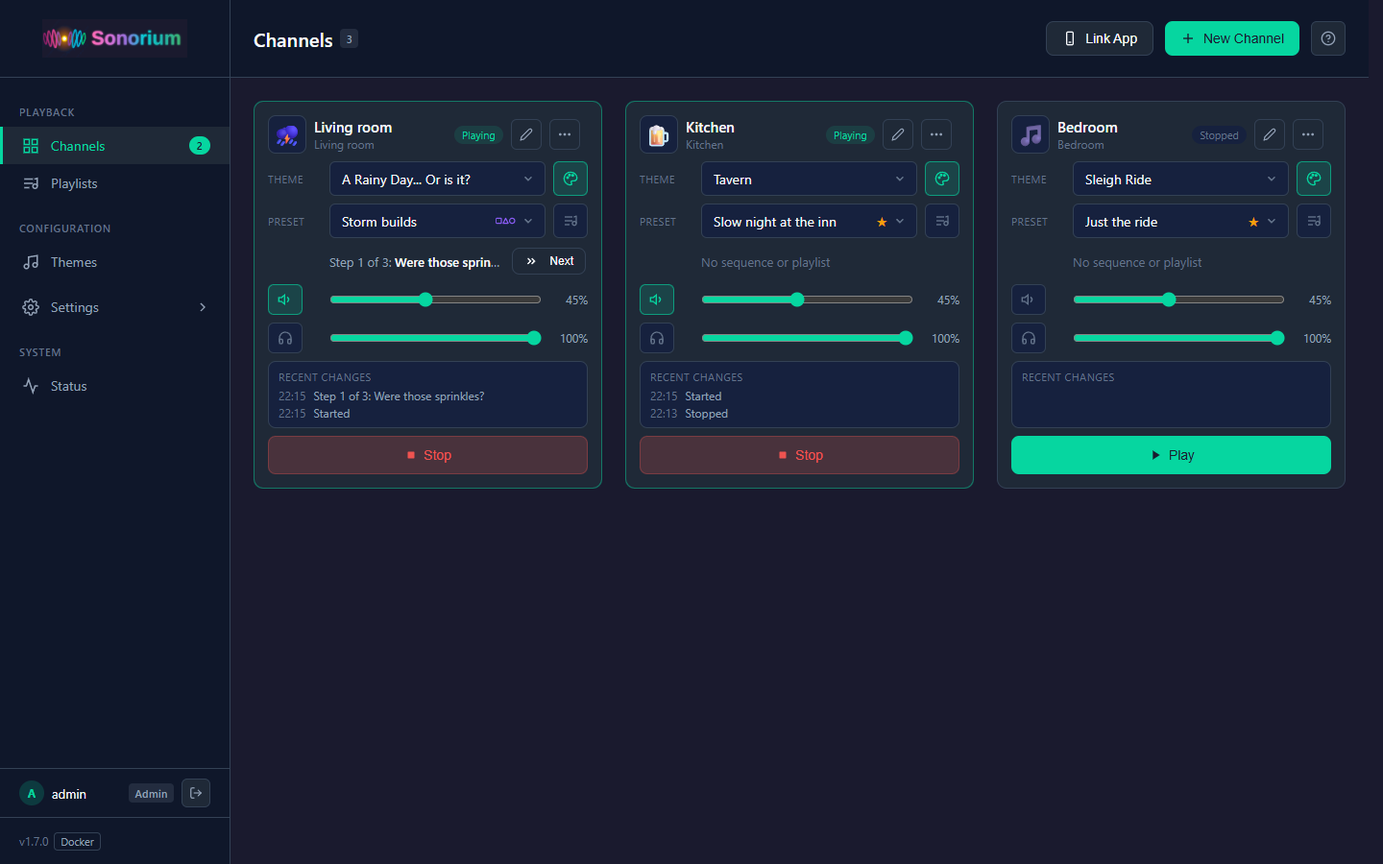
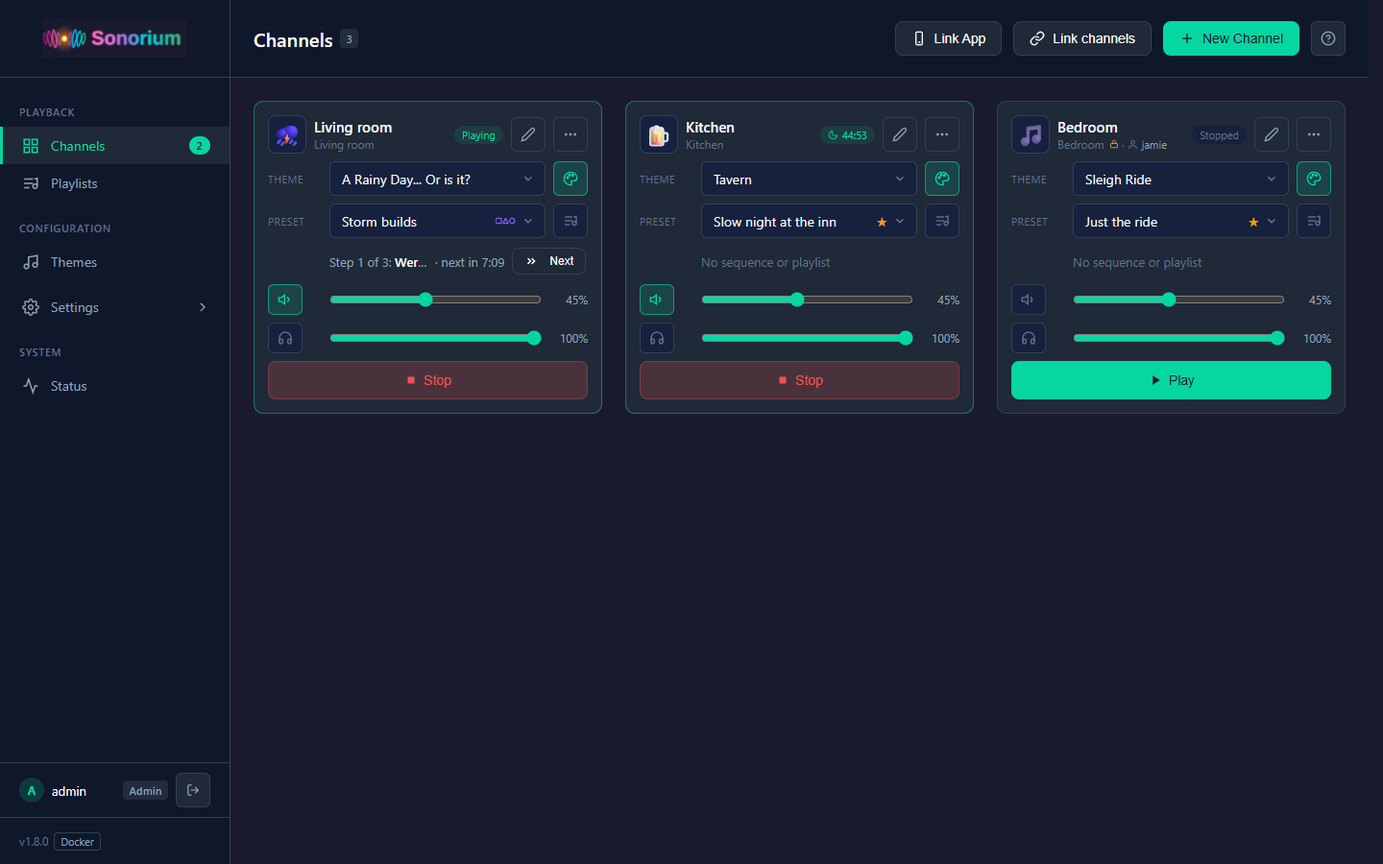
chore(release): 1.8.0 notice, changelog highlights, READMEs and screenshots [skip ci]
READMEs (root and add-on): a "Major release: 1.8.0" notice at the top of
Announcements, and What's new 1.8.0 grouped for users: Plugin Framework 2,
themes (MP3 standard, bulk import, Duplicate, unique names, Copy into this
theme, backups and packages for the app), channels (sleep timer, Next and
Previous, Child Mode, cards without Recent changes, back after a restart,
Max channels, My Channel), settings (server name, Stereo, Keys and
Announcements switches, Restart), network and hosting (ports, trusted
proxies, public Stream URL), security (limits, stream links, first account,
log privacy, lookups) and fixes; root also the first full Windows release.
Features, formats, Web UI settings, Docker ports and a reverse-proxy note
pointing to docs/HOSTING.md brought up to date; Kid mode is Child Mode;
built-in plugins are Theme Merge and Ambient Mixer Importer.

CHANGELOG: 1.8.0 notice and highlights under the version-list marker, where
the release commit adds the v1.8.0 heading.

Screenshots from a local server (fake speakers on 192.0.2.x, no discovery
or mDNS): Channels and Phone_Channels (no Recent changes, sleep timer,
Child Mode lock), Settings_Advanced (General); new Import_Themes and
Settings_Network (Limits and Network).

The subject is chore(release) so the changelog leaves it out, and
[skip ci] so no -dev version is made on this branch.

diff --git a/README.md b/README.md
@@ -6,6 +6,21 @@
 
 ## Announcements
 
+> ## ⭐ Major release: 1.8.0
+>
+> A large update. Plugins can add to any screen, theme audio is stored in one standard format, themes import several at a time, and Sonorium is ready to run behind a reverse proxy and to be reached from outside the home network.
+>
+> - **Plugin Framework 2:** plugins add fields, buttons and pages to the screens, keep values on themes, tracks, channels and speakers, bring devices such as lights or displays, and know which sound is heard where and when. A plugin asks for permission before it runs.
+> - **Theme audio as MP3:** every track is stored as an MP3 (320 kb/s, 44.1 kHz, stereo). The original files are kept in each theme's `_originals` folder.
+> - **Themes:** import several zips at once, or drop them on the Themes page; **Duplicate** copies a theme; no two themes share a name.
+> - **Channels:** a sleep timer, Next and Previous through a theme's presets, and Child Mode (formerly Kid mode).
+> - **Settings › Advanced:** a server name for the app and other devices, the HTTP and HTTPS ports (Docker and Linux), trusted proxies, and limits for sign-ins, requests, uploads, imports and streams.
+> - **Stereo:** an optional switch in **Settings › Audio Settings** keeps left and right apart on every stream.
+>
+> **After the update,** Sonorium converts the existing theme audio to MP3 in the background, one file at a time, while the themes keep playing. A large library needs a while. The originals stay, so the themes folder uses more disk space afterwards.
+>
+> **Unchanged by the update:** the ports stay 8008 and 8808, and Stereo is off. Every new limit has a default and can be changed in **Settings › Advanced**. Details are under [What's new](#whats-new).
+
 > ## ⭐ 1.7.0: Sign-in, announcements and plugins
 >
 > Sonorium gets users and sign-in, plays announcements sent by other systems, and runs plugins that play sounds over channels.
@@ -84,6 +99,11 @@ Search themes, pick speakers by floor, area or one at a time, and switch the cha
 Search, filter by category, and switch between cards and a list.
 
 ![Themes](screenshots/Themes.png)
+
+#### Import themes
+Several theme zips at once, each with its result.
+
+![Import themes](screenshots/Import_Themes.png)
 
 #### Edit Theme
 Tracks in sections by how they play: Unassigned, Background, Intermittent and Ebb & Flow, each with its own groups.
@@ -164,9 +184,13 @@ Keys for devices and programs, each allowed only the items checked on it.
 ![Settings → Keys](screenshots/Settings_Keys.png)
 
 #### Settings → Advanced
-Optional features, and the playback values every theme is built on.
+Optional features, the server name, and the playback values every theme is built on.
 
 ![Settings → Advanced](screenshots/Settings_Advanced.png)
+
+Limits for requests, uploads, imports, streams and sign-in tries, and the network settings: Stream URL, ports and trusted proxies (Docker).
+
+![Settings → Advanced: Limits and Network](screenshots/Settings_Network.png)
 
 #### Help on every page
 The **?** in the top bar explains the page you're on.
@@ -199,6 +223,7 @@ The menu opens from the top bar.
 - **Theme Favorites**: Star your most-used themes for quick access
 - **Custom Categories**: Organize themes into categories like "Weather", "Nature", "Urban"
 - **Theme Icons**: Visual icons for easy theme identification
+- **Import and Duplicate**: Import several theme zips at once, or drop them on the Themes page; Duplicate copies a theme
 - **Bundled Themes**: Includes Sleigh Ride, Tavern, and "A Rainy Day... Or is it?" out of the box
 
 #### Track Mixer
@@ -235,11 +260,12 @@ Fine-tune how each audio file plays within a theme:
 - **Users and Roles**: An Admin changes everything; a User plays and changes channels, playlists and sequences
 - **Keys**: For devices and programs, each allowed only the items checked on it, with an expiry
 - **Link App**: A QR code on the Channels page links the Sonorium app to your account
-- **Zones** (optional): Channels that belong to a user, Kid mode with its hours, a home channel for each speaker, and linked channels
+- **Zones** (optional): Channels that belong to a user, Child Mode and its hours, a home channel for each speaker, and linked channels
 
 #### Plugins
-- **Built-in Plugins**: Users, Integration (keys), Announcements, Theme Merge and Ambient Mixer Importer; each can be uninstalled
-- **Plugin API**: Plugins play sounds and announcements over channels, ramp volume, add audio outputs, and answer remotes, MQTT topics and webhooks
+- **Built-in Plugins**: Theme Merge and Ambient Mixer Importer; each can be uninstalled
+- **Plugin API**: Plugins play sounds and announcements over channels, ramp volume, add audio outputs that work as speakers, and answer remotes, MQTT topics and webhooks
+- **Plugin Framework 2**: Plugins add to any screen, keep values on themes, channels and speakers, bring devices such as lights, follow which sound is heard when, and run only with the permissions an admin allows
 
 #### Modern Web Interface
 - **Responsive Design**: Phones, tablets and short screens each get a layout that fits; on a phone the menu opens from a top bar that's always there
@@ -252,7 +278,7 @@ Fine-tune how each audio file plays within a theme:
 
 ### Supported Formats
 
-Audio files: `.mp3`, `.wav`, `.flac`, `.ogg`
+Audio files: `.mp3`, `.wav`, `.flac`, `.ogg`. Sonorium stores every track as an MP3 (320 kb/s, 44.1 kHz, stereo) and keeps the original in the theme's `_originals` folder.
 
 Single-file themes loop seamlessly using crossfade blending—no jarring restarts!
 
@@ -354,10 +380,17 @@ services:
 4. **Create a Channel** and press play
 
 **Ports.** 8008 serves the web UI, the API and the streams over HTTP. 8808 serves the web
-UI and API over HTTPS, for the Sonorium app (`SONORIUM_HTTPS_PORT` changes it). Its
-certificate is self-signed, so a browser warns about it; the app checks it instead.
-With `network_mode: host` both ports are open on the host. Details:
+UI and API over HTTPS, for the Sonorium app. Its certificate is self-signed, so a browser
+warns about it; the app checks it instead. Both ports change in **Settings › Advanced ›
+Network**, or with `SONORIUM_HTTP_PORT` and `SONORIUM_HTTPS_PORT`; a change restarts
+Sonorium. With `network_mode: host` both ports are open on the host. Details:
 [docs/AUTH.md](docs/AUTH.md).
+
+**Behind a reverse proxy.** Add the proxy's address or network to **Trusted proxies**
+(**Settings › Advanced › Network**, or `SONORIUM__TRUSTED_PROXIES`), so sign-in limits and
+the logs see each caller's address. Set **Stream URL** to the public address
+(`https://...`): the app and Link App codes then use it, and while **Require login** is on,
+speakers outside the LAN get stream links. Details: [docs/HOSTING.md](docs/HOSTING.md).
 
 ### Sign-in
 
@@ -520,6 +553,68 @@ Full documentation is available in the **[Wiki](https://github.com/synssins/sono
 
 ## What's new
 
+#### 1.8.0
+
+**Plugin Framework 2**
+- **Plugins add to any screen.** A plugin adds fields, buttons, columns, badges and pages to the screens, list rows, cards and ⋯ menus. Each spot has fixed rules for what fits there; anything outside them is refused and listed on the plugin's row in **Settings → Plugins**.
+- **Values on themes, channels and more.** A plugin keeps values on themes, tracks, groups, presets, sequences, channels, speakers, playlists and users. They stay through every edit and travel with theme exports; uninstalling the plugin removes them.
+- **Permissions.** A plugin lists what it uses: channels, themes, audio, devices, screens, Home Assistant, MQTT, Python packages, the network. It stays off until an admin allows the list, and an update that asks for more stays off until allowed again. Nothing a plugin brings is installed or run before that.
+- **Devices.** A plugin brings a kind of device, such as a light, a display or a button panel. Sonorium lists, names and places it in an area, and assigns it to channels, without knowing what the device is.
+- **Output devices are speakers.** Audio outputs a plugin provides show in **Settings → Speakers** and the channel editor like any speaker. Outputs of the computer Sonorium runs on play one at a time, unless **Allow output to more than one local device** is on (**Settings → Plugins**, ⋯ menu).
+- **Cues and listening.** A plugin learns ahead of time which sound will be heard on which speaker, and when, and can listen to a channel's mix: lights or a display can follow the sound. Neither can slow or change playback.
+- **Only if.** A command map entry can have conditions (⋯ › **Only if…**): the channel is playing or stopped, the time is between two times, or a condition a plugin adds. Plugins can also add actions.
+- **For plugin authors:** plugin API 1.2. See [docs/PLUGIN_DEVELOPMENT.md](docs/PLUGIN_DEVELOPMENT.md), sections 23 to 31.
+
+**Themes**
+- **MP3 for theme audio.** Every track is stored as an MP3 at 320 kb/s, 44.1 kHz, stereo. Imports, uploads and copied files are converted as they arrive; existing themes are converted in the background after the update, one file at a time. Track settings, presets, sequences and links stay as they were. The original files are kept in the theme's `_originals` folder, which is never played and is left out of exports.
+- **Import several themes.** **Import theme…** accepts several zips at once, or drop them on the Themes page. They import one after another, each with its result; one that fails doesn't stop the rest.
+- **Duplicate.** A theme's ⋯ menu, on the Themes page and in the Theme Editor, makes a separate copy under a new name.
+- **One name per theme.** Two themes can't have the same name (capitals don't count). Creating, renaming, importing or duplicating with a name in use is refused with "A theme with this name already exists".
+- **Copy into this theme.** A linked file's download button, or its ⋯ menu, copies the file into the theme in place of the link. Its settings and preset values stay.
+- **Theme backups from the Sonorium app.** The app backs up a device's presets, sequences, track settings and playlists to the server, and whole themes made on the device, per account and device. **Settings → Backups** lists them; **Load my device presets into themes** adds a device's presets to the matching themes as ordinary presets. **Backup space per user** and **Backup space for all users** are in **Settings → Advanced**.
+- **Themes for the app.** The Sonorium app can download a theme, every file checked, to play on the device.
+
+**Channels**
+- **Sleep timer.** A playing channel's ⋯ › **Sleep timer…** fades it out and stops it after 15, 30 or 45 minutes, 1 to 4 hours, or a custom time. The card shows the time left. A restart keeps the timer.
+- **Next and Previous.** With no playlist or sequence running, **Next** (Home Assistant, MQTT, plugins, the Sonorium app) moves to the theme's next preset. **Previous**, new for the app and the API, goes back one playlist entry, sequence step or preset.
+- **Channel cards.** Recent changes is gone from the cards and from the Home Assistant channel popup; each card is as tall as what it shows.
+- **Child Mode.** Kid mode is now called Child Mode. The card shows a lock after the speakers.
+- **Back after a restart.** After a restart from Settings or the web UI, the channels that were playing play again with their theme, preset, sequence or playlist, and volume. After a stop or a crash they stay stopped.
+- **Max channels.** Starting a channel when the most channels are already playing is refused with a message, from the web UI, Home Assistant, MQTT, plugins and links.
+- **My Channel.** For the Sonorium app: each account has a channel that plays only on that account's devices.
+
+**Settings**
+- **Server name** (**Settings → Advanced**, General): the name the app and other devices show, also announced on the network.
+- **Stereo** (**Settings → Audio Settings**, off by default): left and right stay apart on every stream; a mono file plays in the middle.
+- **Keys and Announcements** are switches in **Settings → Advanced**; off turns the feature off everywhere at once. Users, Keys and Announcements are part of Sonorium now, no longer built-in plugins. Existing users and keys keep working.
+- **Restart** from Settings works in Docker and the Home Assistant app. Before, the page could hang.
+
+**Network and hosting**
+- **Ports.** **Settings → Advanced**, Network sets the HTTP port (8008) and the HTTPS port (8808) on Docker and Linux; `SONORIUM_HTTP_PORT` and `SONORIUM_HTTPS_PORT` do the same. A change restarts Sonorium.
+- **Behind a reverse proxy.** **Trusted proxies** names the proxies in front of Sonorium, so sign-in limits and the logs see each caller's address. Set the **Stream URL** to the public address: the app and Link App codes then use it. See [docs/HOSTING.md](docs/HOSTING.md).
+- **Home networks on 10.x addresses** work. They were taken for Docker's internal network.
+
+**Security**
+- **Limits** in **Settings → Advanced**, Limits: the size of sign-in requests, other requests, uploads and theme imports, the files in one theme import, exports at once, streams per address and in all, event streams per user, and sign-in tries per username. Each has a default; 0 is no limit.
+- **Stream links.** While **Require login** is on, speakers outside the LAN get stream addresses that work for a set time (12 hours by default).
+- **The first account** can only be made from the LAN, or with `SONORIUM_SETUP_TOKEN`.
+- **Logs.** Sign-ins and addresses on the Logs page are for admins; everyone else sees `[address]`. The add-on log and `docker logs` keep the full lines.
+- **Theme lookups and links** can't reach outside the audio folder, Windows drive letters included. A theme import leaves out files that don't belong in a theme.
+
+**Windows app**
+- **First full release.** The Windows installer (`Sonorium-Setup-1.8.0.exe`) is on the [Releases page](https://github.com/synssins/sonorium/releases) as a full release; earlier Windows builds were pre-releases. Installed Windows apps update from it.
+
+**Fixes**
+- A group's file that ends cut off fades out instead of stopping dead.
+- A preset's and a While playing step's **Rise** reach the channel.
+- A theme zip without a top folder keeps its groups.
+- **Esc** in the Theme Editor works like **Cancel**, and closes the channel editor without saving.
+- **New Channel** starts at the **Default volume** from **Settings → Audio Settings**.
+- **Removing MQTT** also removes the Announce notify entities and plugins' entities from Home Assistant.
+- **Keys:** **Last used** changes only when a request with the key is accepted.
+- The **Link App** dialog closes once its code links a device or expires.
+- Themes load on Windows when their files contain accented letters or other special characters.
+
 #### 1.7.0
 
 **Sign-in**
@@ -549,7 +644,7 @@ Full documentation is available in the **[Wiki](https://github.com/synssins/sono
 **Home Assistant dashboard cards**
 - **Sonorium's cards** are added to Home Assistant automatically when Home Assistant and MQTT are linked. Search for **Sonorium** in the card picker.
 - **Four layouts:** **Tile**, **Channel**, **Player** and **All channels**, changed in the card's editor along with what each one shows.
-- **Channel popup.** Clicking a channel's name opens the channel as it looks on Sonorium's Channels page, with its recent changes.
+- **Channel popup.** Clicking a channel's name opens the channel as it looks on Sonorium's Channels page.
 - When the cards can't be added automatically, **Settings → Connection** says why and offers the file to download (Docker).
 
 **Zones**

diff --git a/sonorium_addon/README.md b/sonorium_addon/README.md
@@ -4,6 +4,21 @@
 
 ## Announcements
 
+> ## ⭐ Major release: 1.8.0
+>
+> A large update. Plugins can add to any screen, theme audio is stored in one standard format, themes import several at a time, and Sonorium is ready to run behind a reverse proxy and to be reached from outside the home network.
+>
+> - **Plugin Framework 2:** plugins add fields, buttons and pages to the screens, keep values on themes, tracks, channels and speakers, bring devices such as lights or displays, and know which sound is heard where and when. A plugin asks for permission before it runs.
+> - **Theme audio as MP3:** every track is stored as an MP3 (320 kb/s, 44.1 kHz, stereo). The original files are kept in each theme's `_originals` folder.
+> - **Themes:** import several zips at once, or drop them on the Themes page; **Duplicate** copies a theme; no two themes share a name.
+> - **Channels:** a sleep timer, Next and Previous through a theme's presets, and Child Mode (formerly Kid mode).
+> - **Settings › Advanced:** a server name for the app and other devices, the HTTP and HTTPS ports (Docker and Linux), trusted proxies, and limits for sign-ins, requests, uploads, imports and streams.
+> - **Stereo:** an optional switch in **Settings › Audio Settings** keeps left and right apart on every stream.
+>
+> **After the update,** Sonorium converts the existing theme audio to MP3 in the background, one file at a time, while the themes keep playing. A large library needs a while. The originals stay, so the themes folder uses more disk space afterwards.
+>
+> **Unchanged by the update:** the ports stay 8008 and 8808, and Stereo is off. Every new limit has a default and can be changed in **Settings › Advanced**. Details are under [What's new](#whats-new).
+
 > ## ⭐ 1.7.0: Sign-in, announcements and plugins
 >
 > Sonorium gets users and sign-in, plays announcements sent by other systems, and runs plugins that play sounds over channels.
@@ -89,6 +104,11 @@ Search, filter by category, and switch between cards and a list.
 
 ![Themes](https://raw.githubusercontent.com/synssins/sonorium/main/screenshots/Themes.png)
 
+#### Import themes
+Several theme zips at once, each with its result.
+
+![Import themes](https://raw.githubusercontent.com/synssins/sonorium/main/screenshots/Import_Themes.png)
+
 #### Edit Theme
 Tracks in sections by how they play: Unassigned, Background, Intermittent and Ebb & Flow, each with its own groups.
 
@@ -166,9 +186,13 @@ Keys for devices and programs, each allowed only the items checked on it.
 ![Settings → Keys](https://raw.githubusercontent.com/synssins/sonorium/main/screenshots/Settings_Keys.png)
 
 #### Settings → Advanced
-Optional features, and the playback values every theme is built on.
+Optional features, the server name, and the playback values every theme is built on.
 
 ![Settings → Advanced](https://raw.githubusercontent.com/synssins/sonorium/main/screenshots/Settings_Advanced.png)
+
+Limits for requests, uploads, imports, streams and sign-in tries, and the network settings: Stream URL, ports and trusted proxies (Docker).
+
+![Settings → Advanced: Limits and Network](https://raw.githubusercontent.com/synssins/sonorium/main/screenshots/Settings_Network.png)
 
 #### Help on every page
 The **?** in the top bar explains the page you're on.
@@ -199,6 +223,7 @@ The menu opens from the top bar.
 - **Theme Favorites**: Star your most-used themes for quick access
 - **Custom Categories**: Organize themes into categories like "Weather", "Nature", "Urban"
 - **Theme Icons**: Visual icons for easy theme identification
+- **Import and Duplicate**: Import several theme zips at once, or drop them on the Themes page; Duplicate copies a theme
 
 #### Playback Control
 - **Per-Channel Volume**: Independent volume control for each channel
@@ -234,11 +259,12 @@ Fine-tune how each audio file plays within a theme:
 - **Users and Roles**: An Admin changes everything; a User plays and changes channels, playlists and sequences
 - **Keys**: For devices and programs, each allowed only the items checked on it, with an expiry
 - **Link App**: A QR code on the Channels page links the Sonorium app to your account
-- **Zones** (optional): Channels that belong to a user, Kid mode with its hours, a home channel for each speaker, and linked channels
+- **Zones** (optional): Channels that belong to a user, Child Mode and its hours, a home channel for each speaker, and linked channels
 
 #### Plugins
-- **Built-in Plugins**: Users, Integration (keys), Announcements, Theme Merge and Ambient Mixer Importer; each can be uninstalled
-- **Plugin API**: Plugins play sounds and announcements over channels, ramp volume, add audio outputs, and answer remotes, MQTT topics and webhooks
+- **Built-in Plugins**: Theme Merge and Ambient Mixer Importer; each can be uninstalled
+- **Plugin API**: Plugins play sounds and announcements over channels, ramp volume, add audio outputs that work as speakers, and answer remotes, MQTT topics and webhooks
+- **Plugin Framework 2**: Plugins add to any screen, keep values on themes, channels and speakers, bring devices such as lights, follow which sound is heard when, and run only with the permissions an admin allows
 
 #### Modern Web Interface
 - **Responsive Design**: Phones, tablets and short screens each get a layout that fits; on a phone the menu opens from a top bar that's always there
@@ -275,7 +301,7 @@ All theme management is done through the Sonorium web interface:
 2. **Upload Audio**: Drag and drop audio files or click to upload
 3. **Organize**: Set categories, icons, and favorites
 
-**Supported formats:** `.mp3`, `.wav`, `.flac`, `.ogg`
+**Supported formats:** `.mp3`, `.wav`, `.flac`, `.ogg`. Sonorium stores every track as an MP3 (320 kb/s, 44.1 kHz, stereo) and keeps the original in the theme's `_originals` folder.
 
 **Single-File Themes:** Themes with one audio file loop seamlessly using crossfade blending—no jarring restarts!
 
@@ -355,13 +381,15 @@ Access Settings from the sidebar to configure:
 - **Crossfade Duration**: Blend time between loops (0-10 seconds)
 - **Default Volume**: Initial volume for new channels
 - **Master Gain**: Global output level
+- **Stereo**: Left and right apart on every stream (off by default)
 - **Speakers**: Switch speakers on or off, set their name, room and volume offset, and play a test sound
 - **Speaker Groups**: Saved sets of speakers for quick channel setup
 - **Plugins**: Install, update, remove and set up plugins
 - **Logs**: Recent messages, with level filter, search, copy and download
 - **Users & devices**: Users, their roles, browsers and phones, and **Require login** (admins)
+- **Backups**: Theme backups from the Sonorium app, by device
 - **Keys**: Keys for devices and programs (admins)
-- **Advanced**: Optional features such as Zones and Plugin packages, and the playback values every theme is built on
+- **Advanced**: The server name, optional features such as Zones, Keys, Announcements and Plugin packages, the playback values every theme is built on, and limits
 
 ### Announcements: let other systems use Sonorium
 
@@ -524,6 +552,65 @@ automations that use the entity first.
 
 ## What's new
 
+### 1.8.0
+
+**Plugin Framework 2**
+- **Plugins add to any screen.** A plugin adds fields, buttons, columns, badges and pages to the screens, list rows, cards and ⋯ menus. Each spot has fixed rules for what fits there; anything outside them is refused and listed on the plugin's row in **Settings → Plugins**.
+- **Values on themes, channels and more.** A plugin keeps values on themes, tracks, groups, presets, sequences, channels, speakers, playlists and users. They stay through every edit and travel with theme exports; uninstalling the plugin removes them.
+- **Permissions.** A plugin lists what it uses: channels, themes, audio, devices, screens, Home Assistant, MQTT, Python packages, the network. It stays off until an admin allows the list, and an update that asks for more stays off until allowed again. Nothing a plugin brings is installed or run before that.
+- **Devices.** A plugin brings a kind of device, such as a light, a display or a button panel. Sonorium lists, names and places it in an area, and assigns it to channels, without knowing what the device is.
+- **Output devices are speakers.** Audio outputs a plugin provides show in **Settings → Speakers** and the channel editor like any speaker. Outputs of the computer Sonorium runs on play one at a time, unless **Allow output to more than one local device** is on (**Settings → Plugins**, ⋯ menu).
+- **Cues and listening.** A plugin learns ahead of time which sound will be heard on which speaker, and when, and can listen to a channel's mix: lights or a display can follow the sound. Neither can slow or change playback.
+- **Only if.** A command map entry can have conditions (⋯ › **Only if…**): the channel is playing or stopped, the time is between two times, or a condition a plugin adds. Plugins can also add actions.
+- **For plugin authors:** plugin API 1.2. See [docs/PLUGIN_DEVELOPMENT.md](https://github.com/synssins/sonorium/blob/main/docs/PLUGIN_DEVELOPMENT.md), sections 23 to 31.
+
+**Themes**
+- **MP3 for theme audio.** Every track is stored as an MP3 at 320 kb/s, 44.1 kHz, stereo. Imports, uploads and copied files are converted as they arrive; existing themes are converted in the background after the update, one file at a time. Track settings, presets, sequences and links stay as they were. The original files are kept in the theme's `_originals` folder, which is never played and is left out of exports.
+- **Import several themes.** **Import theme…** accepts several zips at once, or drop them on the Themes page. They import one after another, each with its result; one that fails doesn't stop the rest.
+- **Duplicate.** A theme's ⋯ menu, on the Themes page and in the Theme Editor, makes a separate copy under a new name.
+- **One name per theme.** Two themes can't have the same name (capitals don't count). Creating, renaming, importing or duplicating with a name in use is refused with "A theme with this name already exists".
+- **Copy into this theme.** A linked file's download button, or its ⋯ menu, copies the file into the theme in place of the link. Its settings and preset values stay.
+- **Theme backups from the Sonorium app.** The app backs up a device's presets, sequences, track settings and playlists to the server, and whole themes made on the device, per account and device. **Settings → Backups** lists them; **Load my device presets into themes** adds a device's presets to the matching themes as ordinary presets. **Backup space per user** and **Backup space for all users** are in **Settings → Advanced**.
+- **Themes for the app.** The Sonorium app can download a theme, every file checked, to play on the device.
+
+**Channels**
+- **Sleep timer.** A playing channel's ⋯ › **Sleep timer…** fades it out and stops it after 15, 30 or 45 minutes, 1 to 4 hours, or a custom time. The card shows the time left. A restart keeps the timer.
+- **Next and Previous.** With no playlist or sequence running, **Next** (Home Assistant, MQTT, plugins, the Sonorium app) moves to the theme's next preset. **Previous**, new for the app and the API, goes back one playlist entry, sequence step or preset.
+- **Channel cards.** Recent changes is gone from the cards and from the Home Assistant channel popup; each card is as tall as what it shows.
+- **Child Mode.** Kid mode is now called Child Mode. The card shows a lock after the speakers.
+- **Back after a restart.** After a restart from Settings or the web UI, the channels that were playing play again with their theme, preset, sequence or playlist, and volume. After a stop or a crash they stay stopped.
+- **Max channels.** Starting a channel when the most channels are already playing is refused with a message, from the web UI, Home Assistant, MQTT, plugins and links.
+- **My Channel.** For the Sonorium app: each account has a channel that plays only on that account's devices.
+
+**Settings**
+- **Server name** (**Settings → Advanced**, General): the name the app and other devices show, also announced on the network.
+- **Stereo** (**Settings → Audio Settings**, off by default): left and right stay apart on every stream; a mono file plays in the middle.
+- **Keys and Announcements** are switches in **Settings → Advanced**; off turns the feature off everywhere at once. Users, Keys and Announcements are part of Sonorium now, no longer built-in plugins. Existing users and keys keep working.
+- **Restart** from Settings works in Docker and the Home Assistant app. Before, the page could hang.
+
+**Network and hosting**
+- **Ports.** **Settings → Advanced**, Network sets the HTTP port (8008) and the HTTPS port (8808) on Docker and Linux; `SONORIUM_HTTP_PORT` and `SONORIUM_HTTPS_PORT` do the same. A change restarts Sonorium.
+- **Behind a reverse proxy.** **Trusted proxies** names the proxies in front of Sonorium, so sign-in limits and the logs see each caller's address. Set the **Stream URL** to the public address: the app and Link App codes then use it. See [docs/HOSTING.md](https://github.com/synssins/sonorium/blob/main/docs/HOSTING.md).
+- **Home networks on 10.x addresses** work. They were taken for Docker's internal network.
+
+**Security**
+- **Limits** in **Settings → Advanced**, Limits: the size of sign-in requests, other requests, uploads and theme imports, the files in one theme import, exports at once, streams per address and in all, event streams per user, and sign-in tries per username. Each has a default; 0 is no limit.
+- **Stream links.** While **Require login** is on, speakers outside the LAN get stream addresses that work for a set time (12 hours by default).
+- **The first account** can only be made from the LAN, or with `SONORIUM_SETUP_TOKEN`.
+- **Logs.** Sign-ins and addresses on the Logs page are for admins; everyone else sees `[address]`. The add-on log and `docker logs` keep the full lines.
+- **Theme lookups and links** can't reach outside the audio folder, Windows drive letters included. A theme import leaves out files that don't belong in a theme.
+
+**Fixes**
+- A group's file that ends cut off fades out instead of stopping dead.
+- A preset's and a While playing step's **Rise** reach the channel.
+- A theme zip without a top folder keeps its groups.
+- **Esc** in the Theme Editor works like **Cancel**, and closes the channel editor without saving.
+- **New Channel** starts at the **Default volume** from **Settings → Audio Settings**.
+- **Removing MQTT** also removes the Announce notify entities and plugins' entities from Home Assistant.
+- **Keys:** **Last used** changes only when a request with the key is accepted.
+- The **Link App** dialog closes once its code links a device or expires.
+- Themes load on Windows when their files contain accented letters or other special characters.
+
 ### 1.7.0
 
 **Sign-in**
@@ -554,7 +641,7 @@ automations that use the entity first.
 **Home Assistant dashboard cards**
 - **Sonorium's cards** are added to Home Assistant automatically when Home Assistant and MQTT are linked. Search for **Sonorium** in the card picker.
 - **Four layouts:** **Tile**, **Channel**, **Player** and **All channels**, changed in the card's editor along with what each one shows.
-- **Channel popup.** Clicking a channel's name opens the channel as it looks on Sonorium's Channels page, with its recent changes.
+- **Channel popup.** Clicking a channel's name opens the channel as it looks on Sonorium's Channels page.
 - When the cards can't be added automatically, **Settings → Connection** says why and offers the file to download (Docker).
 
 **Zones**

diff --git a/sonorium_addon/CHANGELOG.md b/sonorium_addon/CHANGELOG.md
@@ -2,6 +2,26 @@
 
 <!-- version list -->
 
+> ## ⭐ 1.8.0: Plugin Framework 2, MP3 themes, hosting and security
+>
+> Plugins can add to any screen, theme audio is stored as MP3, themes import several at a time, and Sonorium is ready to run behind a reverse proxy and outside the home network. After the update, existing theme audio is converted to MP3 in the background; the originals are kept in each theme's `_originals` folder.
+
+### Highlights
+
+- **Plugin Framework 2:** plugins add fields, buttons, columns, badges and pages to the screens, rows, cards and ⋯ menus, each spot with fixed rules; keep values on themes, tracks, groups, presets, sequences, channels, speakers, playlists and users; bring devices of any kind (lights, displays, button panels); learn which sound is heard where and when (cues) and listen to a channel's mix; add actions and "Only if" conditions to command maps. A plugin lists the permissions it uses and stays off, with nothing installed or run, until an admin allows them. Plugin API 1.2.
+- **Output devices are speakers:** a plugin's audio outputs show in Settings › Speakers and the channel editor; local outputs play one at a time unless "Allow output to more than one local device" is on.
+- **MP3 standard for theme audio:** every track is stored as MP3 320 kb/s, 44.1 kHz, stereo; imports, uploads and copied files are converted as they arrive, existing themes in a background pass. Settings, presets, sequences and links follow; originals kept in `_originals`.
+- **Themes:** bulk import (several zips, or dropped on the Themes page), Duplicate theme, no two themes with the same name (409 "A theme with this name already exists"), Copy into this theme for linked files.
+- **Theme backups for the Sonorium app:** per account and device, listed in Settings › Backups, with "Load my device presets into themes" and backup space limits; theme packages the app downloads to play on the device.
+- **Channels:** sleep timer; Next moves through a theme's presets when no playlist or sequence runs, and Previous is new (`POST /api/sessions/{id}/previous`); Child Mode (formerly Kid mode); Recent changes removed from the cards and the Home Assistant popup; channels that were playing play again after a requested restart; Max channels is enforced; My Channel for the app.
+- **Settings:** server name (Settings › Advanced › General, also in mDNS and `/api/info`); Stereo switch in Settings › Audio Settings (off by default); Keys and Announcements switches in Settings › Advanced; Users, Keys and Announcements are part of Sonorium, no longer built-in plugins; Restart works in Docker and the Home Assistant app.
+- **Network and hosting:** HTTP and HTTPS ports in Settings › Advanced › Network (Docker and Linux) or `SONORIUM_HTTP_PORT` / `SONORIUM_HTTPS_PORT`; Trusted proxies (`SONORIUM__TRUSTED_PROXIES`); a public Stream URL is what `/api/info` and Link App codes give the app; 10.x home networks are reachable. See docs/HOSTING.md.
+- **Security:** limits for sign-in and other request sizes, uploads, theme imports, exports, streams, event streams and sign-in tries per username (Settings › Advanced › Limits; 0 is no limit); stream links for speakers outside the LAN while Require login is on; the first account only from the LAN or with `SONORIUM_SETUP_TOKEN`; sign-ins and addresses on the Logs page for admins only; theme lookups, link keys and zip entries can't reach outside the audio folder.
+- **Windows app:** the installer is released with Sonorium; 1.8.0 is the first full (not pre-release) Windows release.
+- **Fixes:** a group's file that ends cut off fades out; a preset's and a While playing step's Rise reach the channel; a zip without a top folder keeps its groups; Esc cancels the Theme Editor and the channel editor; New Channel starts at the Default volume; removing MQTT removes the Announce and plugin entities; a key's Last used counts only accepted requests; the Link App dialog closes when its code is used or expires; text files are read as UTF-8 everywhere.
+
+The full list is in the README under What's new.
+
 ## v1.7.3-dev.64 (2026-10-14)
 
 ### Bug Fixes
